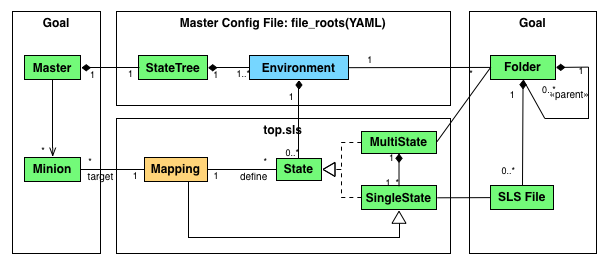
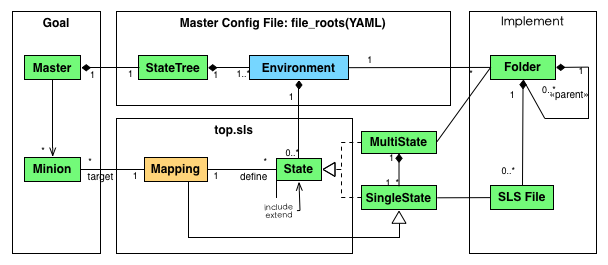
+) add post:salt-state-config-structure

diff --git a/_posts/infrastructure/2013-07-02-salt_state_config_structure.md b/_posts/infrastructure/2013-07-02-salt_state_config_structure.md
@@ -1,0 +1,73 @@
+---
+layout: post
+title: "Salt state 配置结构"
+description: "Salt的state配置比较复杂，官方文档也比较零散。初学者不易掌握。但是如果把Salt的state配置看做是编写代码，就很容易掌握其脉络。
+配置的目标是通过master管理多个mision的状态，最终配置的实现是使用文件夹和文件。而Salt state的设计就是在二者之间建立逻辑关系。"
+category: 基础架构
+tags: [salt]
+lastmod: 
+---
+
+Salt的state配置比较复杂，官方文档也比较零散。初学者不易掌握。但是如果把Salt的state配置看做是编写代码，就很容易掌握其脉络。
+
+下图是Salt state配置结构的逻辑图：
+
+
+![salt_functions](/images/2013/salt_usage/salt_state_config_structure.png)
+
+配置的目标是通过master管理多个mision的状态，最终配置的实现是使用文件夹和文件。而Salt state的设计就是在二者之间建立逻辑关系。
+
+# StateTree 和 Environment
+
+每个master上面都会建立一棵state树，将各个state的配置分级管理。
+
+这棵树的第一层就是环境（environment)的划分。salt将环境分为base环境和自定义环境。base环境是必须存在的，其他的环境根据自己的需要进行定义。典型的可以划分开发环境(dev), 用户参与测试环境（uat)，生成环境(prod), 备份环境（backup)等等。
+
+Salt约定base环境必须存在，是其他环境的基础，base环境中定义的state可以在各个自定义环境中使用。
+
+显然，每个环境至少需要一个文件夹来保持多个state配置。事实上，Salt允许一个环境使用多个文件夹。
+
+Salt环境与目录的对应关系在salt master的配置文件`/etc/salt/master`的`file_roots`变量中定义。`/etc/salt/master`文件也是使用YAML格式。
+
+一个典型的配置如下：
+
+{% highlight yaml %}
+ file_roots:
+   base:
+     - /srv/salt/
+   dev:
+     - /srv/salt/dev/services
+     - /srv/salt/dev/states
+   prod:
+     - /srv/salt/prod/services
+     - /srv/salt/prod/states
+{% endhighlight %}
+
+# state定义
+
+Salt state即可以使用单个的sls文件(single state)，也可以使用一个文件夹并在其中保持多个sls及其他配置文件（multi-state)。
+
+state之间还可以使用require, include, extend等关系进行关联。
+
+# minion 与 state之间的映射
+
+一个salt master可以管理多个minion, 也可以定义很多个state。需要在minion和state之间建立一种多对多的映射关系。
+
+Salt在一个`top.sls`文件中定义这种映射关系。比如：
+
+{% highlight yaml %}
+base:
+  '*':
+    - servers
+dev:
+  '*nodb*':
+    - mongodb
+{% endhighlight %}
+
+# 小结
+
+按环境的不同划分state的存放目录；定义state文件/文件夹并在state之间使用关系实现复用；建立minion和state之间的多对多映射关系。
+
+掌握了这三点，就掌握了Salt state配置的脉络。
+
+实际上，Salt pillar的配置中也使用了类似的结构。
